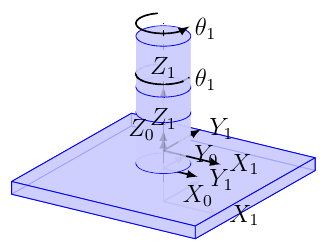
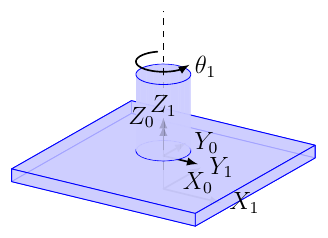
[Assignment1-Kinematics] Add images
- Add handwritten images
- Add datasheet images
- Add part of the kinematics image using the software

Changed region(s): [[0.0305, 0.0588, 0.9756, 0.9706], [0.7622, 0.8824, 0.7927, 0.9118], [0.4573, 0.0294, 0.4878, 0.0588]]

diff --git a/assignment1_kinematics/imgs/README.md b/assignment1_kinematics/imgs/README.md
@@ -2,3 +2,7 @@
 
 ## Source:
 http://github.com/downloads/alexdu/sketch-lib/
+
+```bash
+./sk2png kinematics.sk
+```
